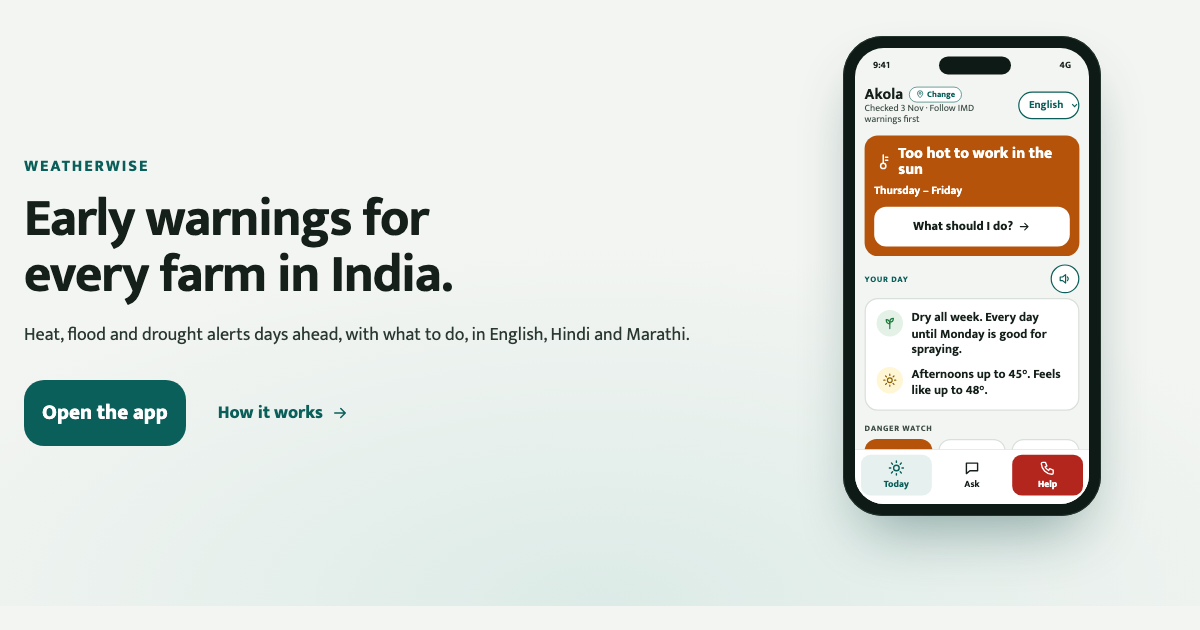
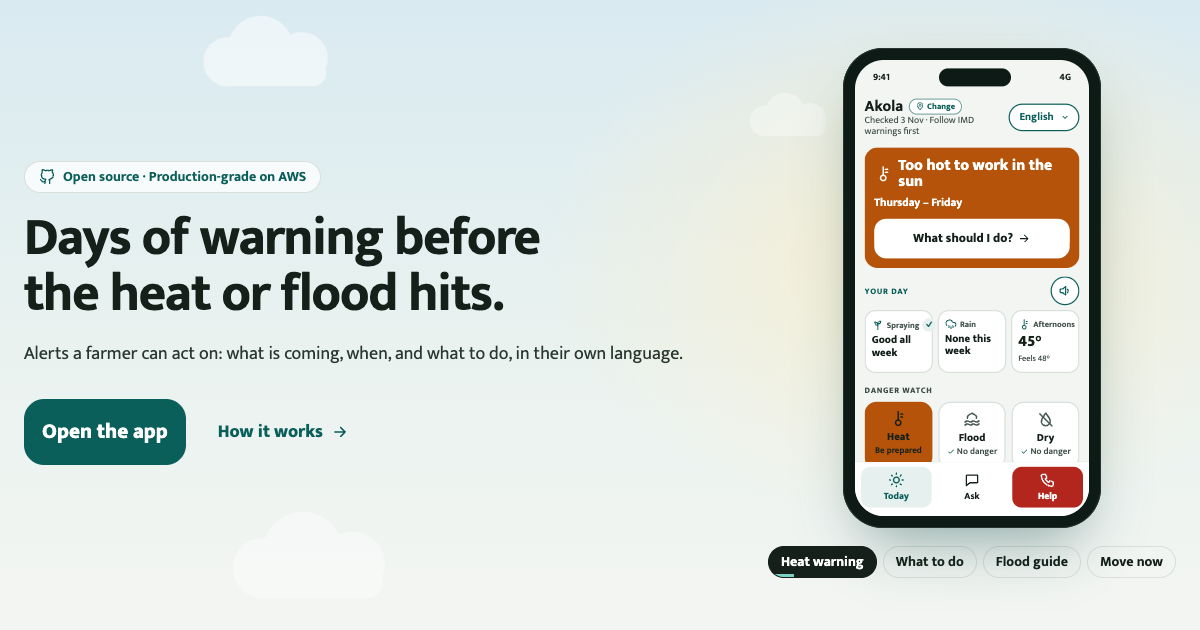
fix(site): open-source badge above the headline, no country in the hero, phone header fixed
- the open-source badge replaces the WEATHERWISE eyebrow (the logo already says it) instead of floating under the buttons
- headline leads with the benefit, not a country: 'Days of warning before the heat or flood hits.'; India stays in Coverage
- GitHub icon hidden in the phone header so the language picker stays on one line
- shorter production-grade line; MCP link text back to one line on phones
- page title, meta description and og.png share preview match the new hero

diff --git a/website/src/text/mr.ts b/website/src/text/mr.ts
@@ -332,18 +332,18 @@ export const mr: Record<TextKey, string> = {
   'site.navAbout': 'आमच्याबद्दल',
   'site.openApp': 'ॲप उघडा',
   'site.seeProof': 'पुरावा पाहा',
-  'site.titleTail': 'भारतातील प्रत्येक शेतासाठी आधीच इशारा',
+  'site.titleTail': 'उष्णता किंवा पुराआधी काही दिवस इशारा',
   'site.footProduct': 'प्रॉडक्ट',
   'site.sourceCode': 'GitHub वर सोर्स कोड',
   'site.license': 'ओपन सोर्स, Apache 2.0',
   'site.githubRepo': 'GitHub रिपॉझिटरी',
   'site.openSourceGithub': 'GitHub वर ओपन सोर्स',
-  'site.awsProd': 'डेमो नाही, प्रोडक्शन-ग्रेड: Amazon ECS आणि Bedrock AgentCore वर लाइव्ह. प्रत्येक बदल टेस्ट, स्मोक-टेस्ट होऊन CloudFormation ने डिप्लॉय होतो. Apache 2.0 अंतर्गत ओपन सोर्स.',
-  'site.openNote': 'ओपन सोर्स · Apache 2.0 · AWS वर प्रोडक्शन-ग्रेड',
+  'site.awsProd': 'डेमो नाही, प्रोडक्शन-ग्रेड: Amazon ECS आणि AgentCore वर लाइव्ह, प्रत्येक बदलावर टेस्ट आणि डिप्लॉय.',
+  'site.openNote': 'ओपन सोर्स · AWS वर प्रोडक्शन-ग्रेड',
   'site.githubAria': 'GitHub वर WeatherWise',
   'site.rawResults': 'GitHub वर मूळ निकाल पाहा',
   'site.connectNote': '/path/to/weatherwise ऐवजी तुम्ही clone केलेले फोल्डर लिहा.',
-  'site.lede': 'उष्णता, पूर आणि दुष्काळाचे काही दिवस आधी इशारे, सोबत काय करावे, इंग्रजी, हिंदी आणि मराठीत.',
+  'site.lede': 'शेतकऱ्याला उपयोगी इशारा: काय येत आहे, कधी, आणि काय करायचे, त्यांच्या स्वतःच्या भाषेत.',
   'site.statLeadValue': '{name} दिवस',
   'site.statLead': '{name} पूर्वी इशारा',
   'site.statReplays': 'भारतातील खऱ्या आपत्ती पुन्हा चालवल्या. प्रत्येक चूक दाखवली आहे.',
@@ -504,7 +504,7 @@ export const mr: Record<TextKey, string> = {
   'official.more': 'अधिकृत संदेश वाचा',
   'emergency.official': 'अधिकृत संदेश',
   'install.later': 'आत्ता नको',
-  'site.headline': 'भारतातील प्रत्येक शेतासाठी आधीच इशारा.',
+  'site.headline': 'उष्णता किंवा पूर येण्याआधी काही दिवस इशारा.',
   'site.statLanguages': 'भाषा, आणि भारतातील कोणतेही ठिकाण',
   'site.impactTitle': 'खऱ्या आपत्तींच्या काही दिवस आधी इशारा.',
   'site.impactLede': 'आम्ही भारतातील खऱ्या आपत्ती फक्त त्या वेळी उपलब्ध असलेल्या अंदाजांवर पुन्हा चालवल्या. WeatherWise ने किती आधी इशारा दिला असता ते पाहा.',
@@ -526,7 +526,7 @@ export const mr: Record<TextKey, string> = {
   'site.pillarCore': 'एजंट एका खाजगी AgentCore Runtime मध्ये चालतात. प्रत्येक संवादाला स्वतःचे वेगळे सत्र मिळते, जे दोन मिनिटे रिकामे राहिल्यावर बंद होते, म्हणून खर्च फक्त संवादाच्या वेळीच होतो.',
   'site.pillarMcp': 'ठिकाणे, अंदाज, अधिकृत इशारे आणि निवाऱ्यांसाठी आठ साधने. ॲप आणि एजंट हीच साधने वापरतात, आणि Claude Desktop किंवा कोणताही दुसरा MCP क्लायंटही वापरू शकतो.',
   'site.safetyStrip': 'कोडमधील तपासनीस प्रत्येक उत्तर पाठवण्यापूर्वी वाचतो',
-  'site.plugIn': 'ओपन सोर्स MCP सर्व्हर तुमच्या एजंटला जोडा',
+  'site.plugIn': 'MCP सर्व्हर तुमच्या एजंटला जोडा',
   'site.coverKicker': 'व्याप्ती',
   'site.coverTitle': 'संपूर्ण भारतात सुरू. आफ्रिका पुढे.',
   'site.coverIndiaT': 'भारत, आता',

diff --git a/website/src/text/hi.ts b/website/src/text/hi.ts
@@ -332,18 +332,18 @@ export const hi: Record<TextKey, string> = {
   'site.navAbout': 'हमारे बारे में',
   'site.openApp': 'ऐप खोलें',
   'site.seeProof': 'सबूत देखें',
-  'site.titleTail': 'भारत के हर खेत के लिए पहले से चेतावनी',
+  'site.titleTail': 'गर्मी या बाढ़ से कई दिन पहले चेतावनी',
   'site.footProduct': 'प्रोडक्ट',
   'site.sourceCode': 'GitHub पर सोर्स कोड',
   'site.license': 'ओपन सोर्स, Apache 2.0',
   'site.githubRepo': 'GitHub रिपॉज़िटरी',
   'site.openSourceGithub': 'GitHub पर ओपन सोर्स',
-  'site.awsProd': 'डेमो नहीं, प्रोडक्शन-ग्रेड: Amazon ECS और Bedrock AgentCore पर लाइव. हर बदलाव टेस्ट, स्मोक-टेस्ट और CloudFormation से डिप्लॉय होता है. Apache 2.0 के तहत ओपन सोर्स.',
-  'site.openNote': 'ओपन सोर्स · Apache 2.0 · AWS पर प्रोडक्शन-ग्रेड',
+  'site.awsProd': 'डेमो नहीं, प्रोडक्शन-ग्रेड: Amazon ECS और AgentCore पर लाइव, हर बदलाव पर टेस्ट और डिप्लॉय.',
+  'site.openNote': 'ओपन सोर्स · AWS पर प्रोडक्शन-ग्रेड',
   'site.githubAria': 'GitHub पर WeatherWise',
   'site.rawResults': 'GitHub पर असली नतीजे देखें',
   'site.connectNote': '/path/to/weatherwise की जगह वह फ़ोल्डर लिखें जहाँ आपने clone किया।',
-  'site.lede': 'गर्मी, बाढ़ और सूखे की कई दिन पहले चेतावनी, साथ में क्या करें, अंग्रेज़ी, हिंदी और मराठी में।',
+  'site.lede': 'किसान के काम की चेतावनी: क्या आने वाला है, कब, और क्या करना है, उनकी अपनी भाषा में।',
   'site.statLeadValue': '{name} दिन',
   'site.statLead': '{name} से पहले चेतावनी',
   'site.statReplays': 'भारत की असली आपदाएँ दोबारा चलाईं। हर चूक दिखाई गई है।',
@@ -504,7 +504,7 @@ export const hi: Record<TextKey, string> = {
   'official.more': 'आधिकारिक संदेश पढ़ें',
   'emergency.official': 'आधिकारिक संदेश',
   'install.later': 'अभी नहीं',
-  'site.headline': 'भारत के हर खेत के लिए पहले से चेतावनी।',
+  'site.headline': 'गर्मी या बाढ़ आने से कई दिन पहले चेतावनी।',
   'site.statLanguages': 'भाषाएँ, और भारत में कोई भी जगह',
   'site.impactTitle': 'असली आपदाओं से कई दिन पहले चेतावनी।',
   'site.impactLede': 'हमने भारत की असली आपदाओं को सिर्फ़ उस समय मौजूद पूर्वानुमानों से दोबारा चलाया। देखिए WeatherWise कितनी जल्दी चेतावनी देता।',
@@ -526,7 +526,7 @@ export const hi: Record<TextKey, string> = {
   'site.pillarCore': 'एजेंट एक निजी AgentCore Runtime में चलते हैं। हर बातचीत को अपना अलग सत्र मिलता है, जो दो मिनट ख़ाली रहने पर बंद हो जाता है, इसलिए ख़र्च सिर्फ़ बातचीत के समय होता है।',
   'site.pillarMcp': 'जगह, पूर्वानुमान, आधिकारिक चेतावनी और आश्रय के लिए आठ टूल। ऐप और एजेंट यही टूल इस्तेमाल करते हैं, और Claude Desktop या कोई भी दूसरा MCP क्लाइंट भी कर सकता है।',
   'site.safetyStrip': 'कोड में लिखा जाँचकर्ता हर जवाब भेजने से पहले पढ़ता है',
-  'site.plugIn': 'ओपन सोर्स MCP सर्वर को अपने एजेंट से जोड़ें',
+  'site.plugIn': 'MCP सर्वर को अपने एजेंट से जोड़ें',
   'site.coverKicker': 'कवरेज',
   'site.coverTitle': 'पूरे भारत में चालू। अफ़्रीका अगला।',
   'site.coverIndiaT': 'भारत, अभी',

diff --git a/website/src/text/en.ts b/website/src/text/en.ts
@@ -345,18 +345,18 @@ export const en = {
   'site.navAbout': 'About us',
   'site.openApp': 'Open the app',
   'site.seeProof': 'See the proof',
-  'site.titleTail': 'early warnings for every farm in India',
+  'site.titleTail': 'days of warning before the heat or flood hits',
   'site.footProduct': 'Product',
   'site.sourceCode': 'Source code on GitHub',
   'site.license': 'Open source, Apache 2.0',
   'site.githubRepo': 'GitHub repo',
   'site.openSourceGithub': 'Open source on GitHub',
-  'site.awsProd': 'Production-grade, not a demo: live on Amazon ECS and Bedrock AgentCore. Every change is tested, smoke-tested and deployed with CloudFormation. Open source under Apache 2.0.',
-  'site.openNote': 'Open source · Apache 2.0 · Production-grade on AWS',
+  'site.awsProd': 'Production-grade, not a demo: live on Amazon ECS and AgentCore, tested and deployed on every change.',
+  'site.openNote': 'Open source · Production-grade on AWS',
   'site.githubAria': 'WeatherWise on GitHub',
   'site.rawResults': 'See the raw results on GitHub',
   'site.connectNote': 'Change /path/to/weatherwise to the folder you cloned.',
-  'site.lede': 'Heat, flood and drought alerts days ahead, with what to do, in English, Hindi and Marathi.',
+  'site.lede': 'Alerts a farmer can act on: what is coming, when, and what to do, in their own language.',
   'site.statLeadValue': '{name} days',
   'site.statLead': 'of warning before the {name}',
   'site.statReplays': 'real Indian disasters replayed. Every miss is shown.',
@@ -517,7 +517,7 @@ export const en = {
   'official.more': 'Read the official message',
   'emergency.official': 'The official message',
   'install.later': 'Not now',
-  'site.headline': 'Early warnings for every farm in India.',
+  'site.headline': 'Days of warning before the heat or flood hits.',
   'site.statLanguages': 'languages, and any place in India',
   'site.impactTitle': 'Warnings days before real disasters struck.',
   'site.impactLede': 'We replayed real Indian disasters using only the forecasts available at the time. This is how early WeatherWise would have warned.',
@@ -539,7 +539,7 @@ export const en = {
   'site.pillarCore': 'The agents run in a private AgentCore Runtime. Each chat gets its own isolated session, closed after two idle minutes, so we pay only while someone is talking.',
   'site.pillarMcp': 'Eight tools for places, forecasts, official alerts and shelters. The app and the agents use the same tools, and so can Claude Desktop or any other MCP client.',
   'site.safetyStrip': 'A checker in code reads every reply before it is sent',
-  'site.plugIn': 'Plug the open-source MCP server into your agent',
+  'site.plugIn': 'Plug the MCP server into your agent',
   'site.coverKicker': 'Coverage',
   'site.coverTitle': 'Live across India. Africa next.',
   'site.coverIndiaT': 'India, now',

diff --git a/website/src/screens/site/site.css b/website/src/screens/site/site.css
@@ -226,7 +226,6 @@
   .ap-hero-grid { display: grid; grid-template-columns: minmax(0, 1fr) auto; gap: 56px; align-items: center; }
   .ap-hero h1 { margin-left: 0; }
   .ap-hero .ap-sub { margin: 0; }
-  .ap-open { justify-content: flex-start; }
   .ap-hero .ap-ctas { justify-content: flex-start; margin: 32px 0 0; }
 }
 .ap-hero .phone-tabs { margin-top: 6px; }
@@ -245,9 +244,10 @@
 .ap-pill { width: fit-content; padding: 16px 24px; border-radius: 20px; background: var(--night-2); border: 1px solid var(--mint); color: #FFFFFF !important; }
 .ap-dark .ap-note svg { flex: none; color: var(--mint); }
 .ap-section .ap-link { margin-top: 36px; }
-/* The open-source line under the hero buttons. */
-.ap-open { display: flex; align-items: center; justify-content: center; gap: 8px; margin-top: 22px; font-size: var(--fs-small); font-weight: 700; color: var(--muted); text-decoration: none; }
-.ap-open:hover { color: var(--action); text-decoration: underline; text-underline-offset: 4px; }
+/* Open source, as a small badge above the headline (the logo already says the name). */
+.ap-badge { display: inline-flex; align-items: center; gap: 8px; padding: 6px 14px; border-radius: 999px; background: rgba(255, 255, 255, 0.75);
+  border: 1px solid var(--line); font-size: 14px; font-weight: 700; line-height: 1.3; color: var(--action); text-decoration: none; margin-bottom: 4px; }
+.ap-badge:hover { border-color: var(--action); }
 .page-head .raw-link { margin-top: 20px; }
 .dev-note { font-size: var(--fs-small); line-height: 1.45; color: #D5E0D9; }
 .ap-section .ap-ctas { margin: 8px 0 0; }
@@ -374,7 +374,7 @@
   .pillars article { padding: 22px; }
 }
 @media (max-width: 520px) {
-  .site-top-actions .btn { display: none; } /* the hero's big button is right below */
+  .site-top-actions .btn, .site-gh { display: none; } /* the hero's big button is right below; GitHub is in the hero badge */
   .site-nav { gap: 16px; font-size: var(--fs-small); }
   .site-foot-grid { grid-template-columns: minmax(0, 1fr); }
 }

diff --git a/website/index.html b/website/index.html
@@ -8,7 +8,7 @@
          and dark-mode extensions (Dark Reader) are asked not to recolour the page. -->
     <meta name="color-scheme" content="only light" />
     <meta name="darkreader-lock" />
-    <meta name="description" content="Early warnings for every farm in India: heat, flood and drought alerts days ahead, with what to do, in English, Hindi and Marathi." />
+    <meta name="description" content="Days of warning before the heat or flood hits: heat, flood and drought alerts a farmer can act on, in their own language. Open source, running on AWS." />
     <link rel="icon" type="image/svg+xml" href="/favicon.svg" />
     <link rel="manifest" href="/manifest.webmanifest" />
     <link rel="preconnect" href="https://fonts.googleapis.com" />
@@ -16,8 +16,8 @@
     <link href="https://fonts.googleapis.com/css2?family=Mukta:wght@400;600;700;800&display=swap" rel="stylesheet" />
     <meta property="og:type" content="website" />
     <meta property="og:site_name" content="WeatherWise" />
-    <meta property="og:title" content="WeatherWise: early warnings for every farm in India" />
-    <meta property="og:description" content="Early warnings for every farm in India: heat, flood and drought alerts days ahead, with what to do, in English, Hindi and Marathi." />
+    <meta property="og:title" content="WeatherWise: days of warning before the heat or flood hits" />
+    <meta property="og:description" content="Days of warning before the heat or flood hits: heat, flood and drought alerts a farmer can act on, in their own language. Open source, running on AWS." />
     <meta property="og:url" content="https://weatherwise.online/" />
     <meta property="og:image" content="https://weatherwise.online/og.png" />
     <meta property="og:image:width" content="1200" />

diff --git a/website/src/screens/site/Landing.tsx b/website/src/screens/site/Landing.tsx
@@ -58,14 +58,13 @@ export function Landing() {
         <div className="ap-sky" aria-hidden="true"><i /><i /><i /></div>
         <div className="wrap ap-hero-grid">
           <div className="ap-hero-copy">
-            <span className="eyebrow">{t('brand.name')}</span>
+            <a href={REPO} target="_blank" rel="noreferrer" className="ap-badge"><Icon name="github" size={16} /> {t('site.openNote')}</a>
             <h1>{t('site.headline')}</h1>
             <p className="ap-sub">{t('site.lede')}</p>
             <div className="ap-ctas">
               <Link href="/app" className="btn big">{t('site.openApp')}</Link>
               <Link href="/how-it-works" className="ap-link">{t('site.navHow')} <Icon name="send" size={18} /></Link>
             </div>
-            <a href={REPO} target="_blank" rel="noreferrer" className="ap-open"><Icon name="github" size={18} /> {t('site.openNote')}</a>
           </div>
           {/* The real app, tappable. It needs the safety advice from the API; until then an empty phone keeps the shape. */}
           {policy ? <PhoneDemo /> : <figure className="phone-demo" aria-hidden="true"><div className="phone" /><div className="phone-tabs" /></figure>}
